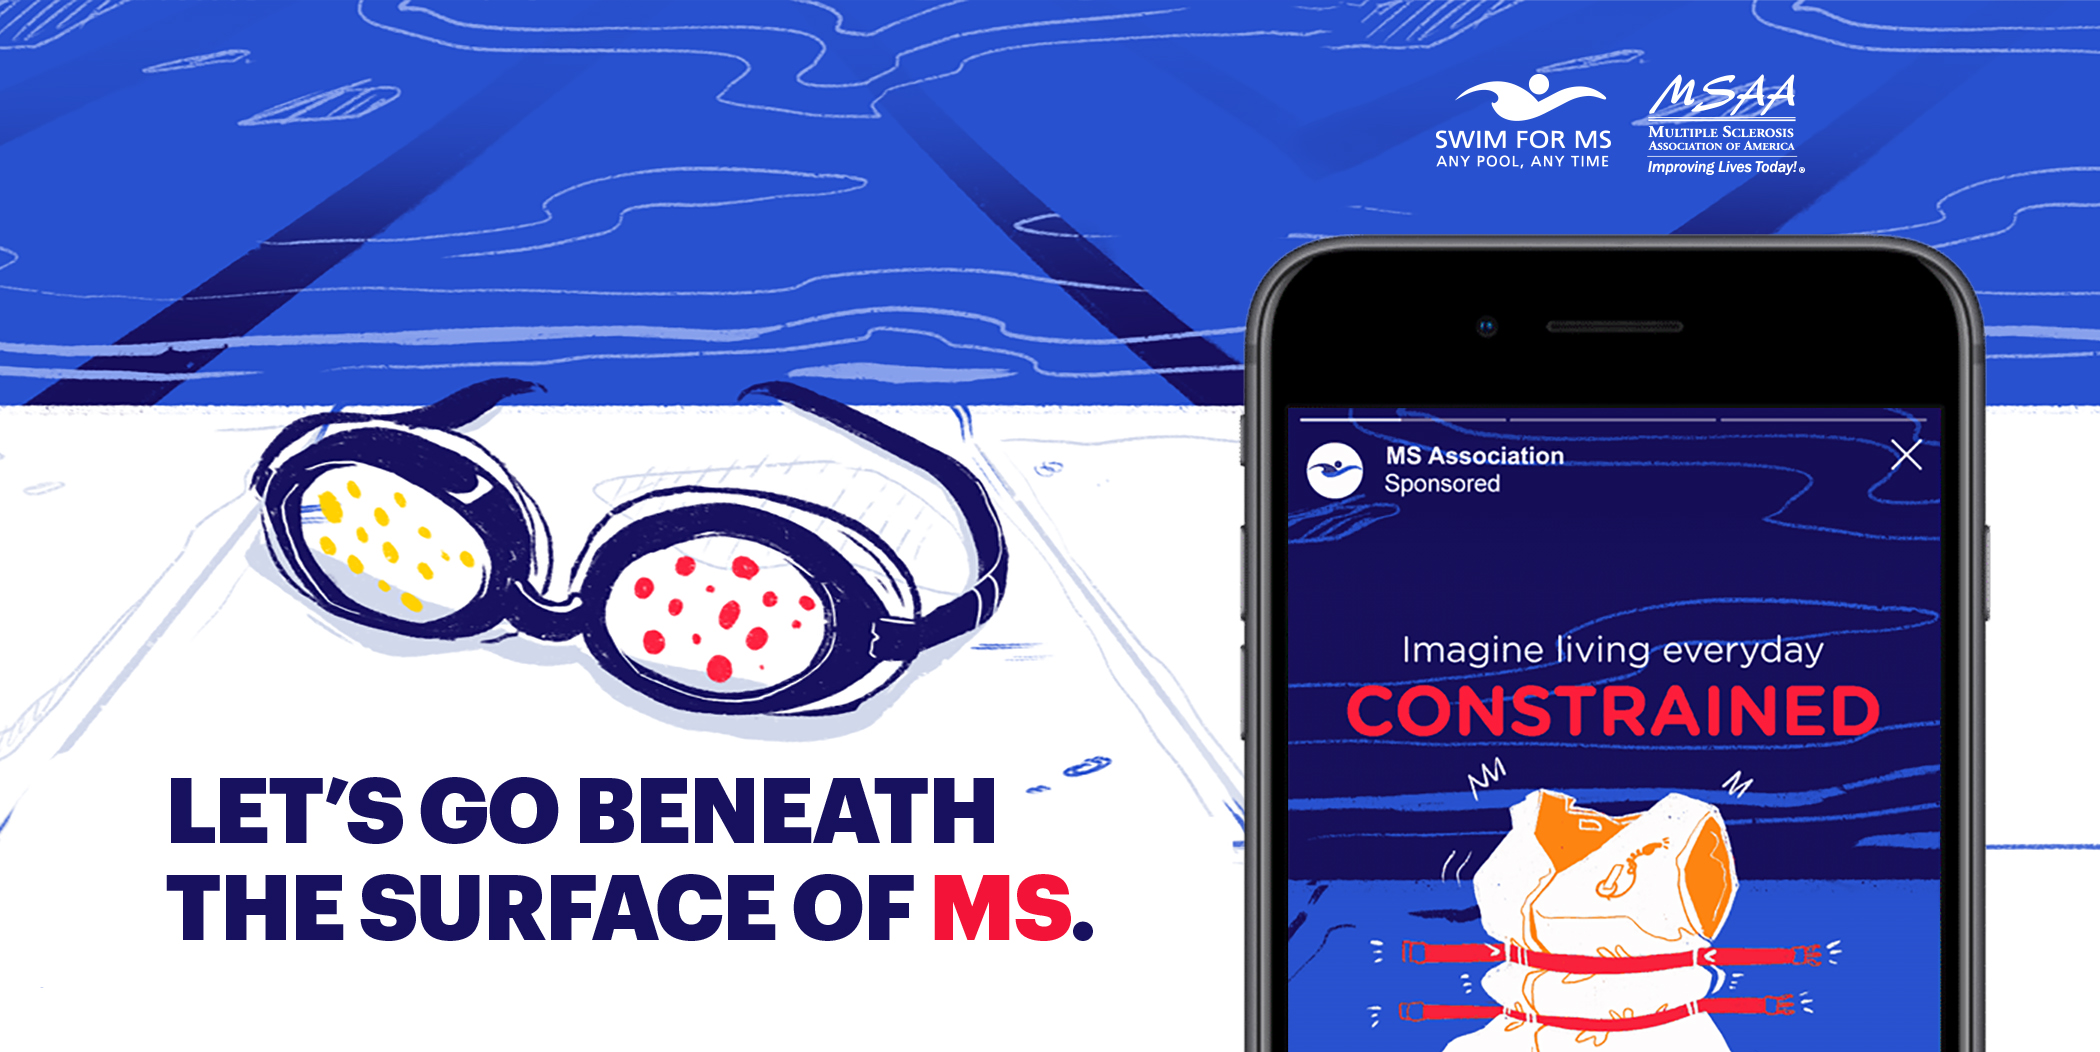
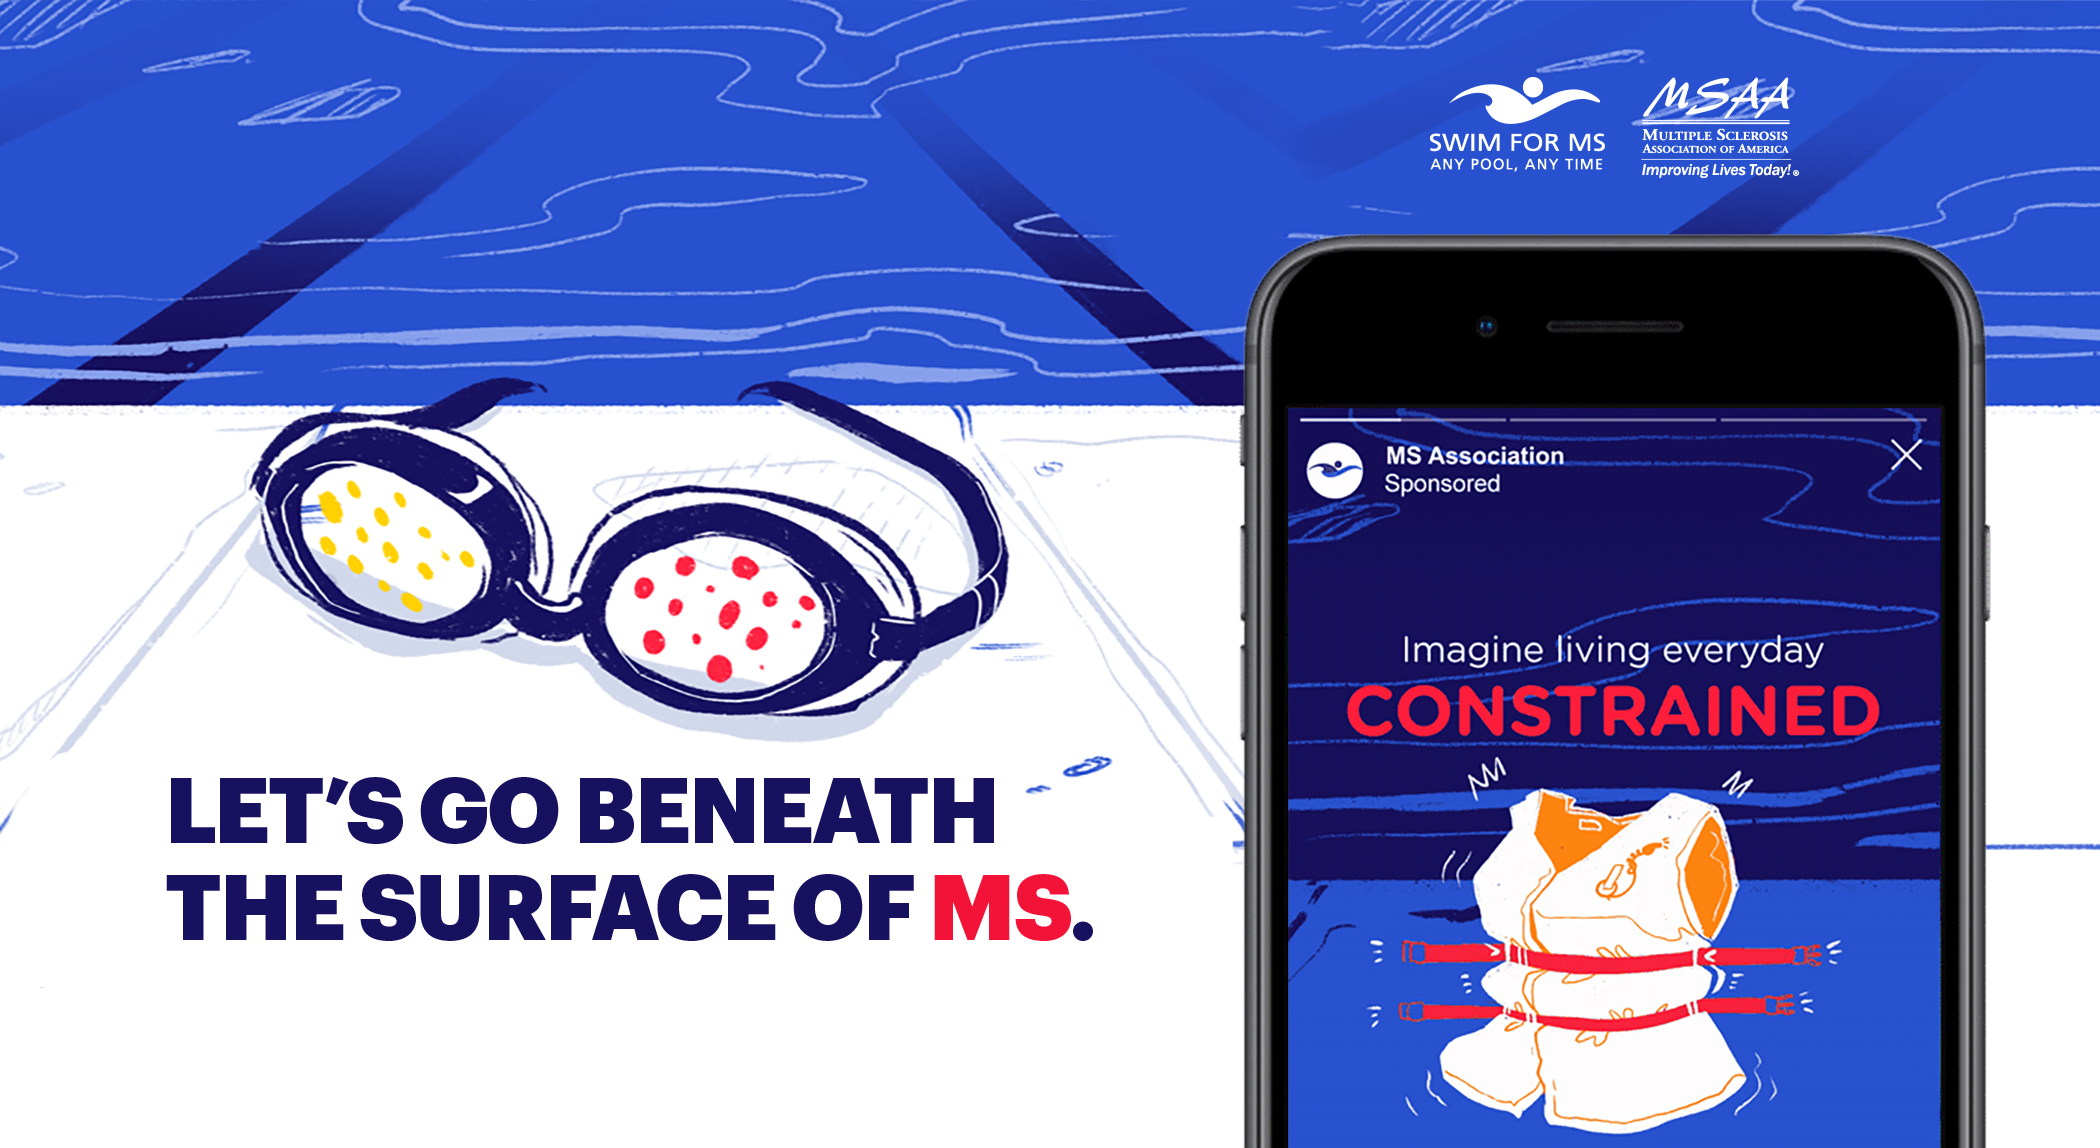
geralt

diff --git a/msaa.html b/msaa.html
@@ -20,7 +20,7 @@
 	<span>
 
 	<span class="cont-nub">#ADVERTISING - 2019</span>
-	<p>Lorem ipsum dolor sit amet, consectetur adipiscing elit, sed do eiusmod tempor incididunt ut labore et dolore magna aliqua. Ut enim ad minim veniam, quis nostr</p>
+	<p>Lorem ipsum dolor sit amet, consectetur adipiscing elit, sed do eiusmod tempor</p>
 
 	<span class="cont-tags animate__animated">Nonprofit</span>
 	<span class="cont-tags animate__animated">Social Media</span>
@@ -29,103 +29,32 @@
 
 </div>
 
-<div class="cont-para">
+<div class="cont-topbot">
 
-<span class="cont-hover"><span class="hoverclick"></span> an image to see more <i class="far fa-hand-pointer"></i></i></span></p>
+	<div class="cont-para">Lorem ipsum dolor sit amet, consectetur adipiscing elit, sed do eiusmod tempor incididunt ut labore et dolore magna aliqua. Ut enim ad minim veniam, quis nostr</div>
 
-<p id="1" class="arraycontent" style="display:block !important"><b>
-
-<span class="cont-pholder-a"></span>
-<span class="cont-pholder"></span>
-<span class="cont-pholder"></span>
-<span class="cont-pholder"></span>
-<span class="cont-pholder"></span>
-<span class="cont-pholder"></span><br>
-
-What unites great women in history?</b> When presented with the challenge to unify female American scientists, artists, educators, and leaders, I found a palpable thematic and visual connection in a punk-feminist identity: the universal story of punching above your weight class.</p>
-
-<p id="2" class="arraycontent">
-
-<span class="cont-pholder"></span>
-<span class="cont-pholder-a"></span>
-<span class="cont-pholder"></span>
-<span class="cont-pholder"></span>
-<span class="cont-pholder"></span>
-<span class="cont-pholder"></span><br>
-
-As an exercise in not just motion design, but also editing, I first assembled hundreds of clips from shows for this episode featuring Annie Clark, a two-time Grammy winning singer-songwriter. <b>The goal was to present a clean, thematically consistent array of motion that allowed me to transition smoothly between scenes.</b></p>
-
-<p id="3" class="arraycontent">
-
-<span class="cont-pholder"></span>
-<span class="cont-pholder"></span>
-<span class="cont-pholder-a"></span>
-<span class="cont-pholder"></span>
-<span class="cont-pholder"></span>
-<span class="cont-pholder"></span><br>
-
-For a "hero" animation, I edited and cut together concert stills to assemble an eye-catching and vibrant scene, keeping the viewer's eye.<br>
-
-I valued smoothly transitioning between scenes, while maintaining visual spectacle and interest. Typography-wise, I chose a combination of a thick, black-weighted typeface to create color blocks while contrasting with a condensed subface.</p>
-
-<p id="4" class="arraycontent">
-
-<span class="cont-pholder"></span>
-<span class="cont-pholder"></span>
-<span class="cont-pholder"></span>
-<span class="cont-pholder-a"></span>
-<span class="cont-pholder"></span>
-<span class="cont-pholder"></span><br>
-
-Into the spotlight! This quick transition was made to introduce segments of the content featuring the "rise" of the person. This could be used with footage, drawings, narration, etc.<br>
-
-Typically, this allows me to smooth over cuts in narration. The editing will allow me to develop a linear narrative from several interview sessions or clips.
-</p>
-
-<p id="5" class="arraycontent">
-	
-<span class="cont-pholder"></span>
-<span class="cont-pholder"></span>
-<span class="cont-pholder"></span>
-<span class="cont-pholder"></span>
-<span class="cont-pholder-a"></span>
-<span class="cont-pholder"></span><br>
-
-Part of the groundwork in this project involved going through footage and stills from concerts. I carefully weighed my options, edited and colored images, and composed them in a 2.5D (moving camera in After Effects) to build the sensation of "moving" through Annie Clark's timeline.
-
-</p>
-
-<p id="6" class="arraycontent">
-	
-<span class="cont-pholder"></span>
-<span class="cont-pholder"></span>
-<span class="cont-pholder"></span>
-<span class="cont-pholder"></span>
-<span class="cont-pholder"></span>
-<span class="cont-pholder-a"></span><br>
-
-Moving footage and animation are key to building an impressive experience out of a short video--viewers will take keys from seeing just seconds of footage of playing, actors, etc. 
-
-</p>
-
-<br>
-<p><b>Skills used:</b> <br>After Effects, storyboarding, video editing, art direction</p>
+	<div class="cont-hovers">Lorem ipsum dolor sit amet, consectetur adipiscing elit, sed do eiusmod tempor incididunt ut labore et dolore magna aliqua. Ut enim ad minim veniam, quis nostr</div>
 
 </div>
 
-<div class="cont-array">
-	<span><p class="indicator"><i class="far fa-hand-pointer"></i></p><img src="links/doc/1.png" class="arraylinks hvr-grow" onmouseover="openArray(event, '1'); changeImg(this);" onmouseleave="revertImg(this);" onclick="openArray(event, '1'); changeImg(this);"></span>
+<div class="cont-phone">
 
-	<span><p class="indicator"><i class="far fa-hand-pointer"></i></p><img src="links/doc/2.png" class="arraylinks hvr-grow" onmouseover="openArray(event, '2'); changeImg(this)" onmouseleave="revertImg(this);" onclick="openArray(event, '2'); changeImg(this);"></span>
+<span class="phone-hovers">
+	<img src="links/doc/msaa/mslife.png" class="hvr-grow arraylinks phone-link"  onmouseover="openArray(event, '1');">
+	<img src="links/doc/msaa/msgoggles.png" class="hvr-grow arraylinks phone-link" onmouseover="openArray(event, '2');">
+	<img src="links/doc/msaa/msfins.png" class="hvr-grow arraylinks phone-link"  onmouseover="openArray(event, '3');">
+</span>
 
-	<span><p class="indicator"><i class="far fa-hand-pointer"></i></p><img src="links/doc/3.png" class="arraylinks hvr-grow" onmouseover="openArray(event, '3'); changeImg(this)" onmouseleave="revertImg(this);" onclick="openArray(event, '3'); changeImg(this);"></span>
+<span class="phone-mockup">
 
-	<span><p class="indicator"><i class="far fa-hand-pointer"></i></p><img src="links/doc/4.png" class="arraylinks hvr-grow" onmouseover="openArray(event, '4'); changeImg(this)" onmouseleave="revertImg(this);" onclick="openArray(event, '4'); changeImg(this);"></span>
+	<img src="links/doc/msaa/ms1.gif" class="phone-display arraycontent" id="1" style="display:block !important">
+	<img src="links/doc/msaa/ms2.gif" class="phone-display arraycontent" id="2" style="display:none">
+	<img src="links/doc/msaa/ms3.gif" class="phone-display arraycontent" id="3" style="display:none">
+</span>
 
-	<span><p class="indicator"><i class="far fa-hand-pointer"></i></p><img src="links/doc/5.png" class="arraylinks hvr-grow" onmouseover="openArray(event, '5'); changeImg(this)" onmouseleave="revertImg(this);" onclick="openArray(event, '5'); changeImg(this);"></span>
-
-	<span><p class="indicator"><i class="far fa-hand-pointer"></i></p><img src="links/doc/6.png" class="arraylinks hvr-grow" onmouseover="openArray(event, '6'); changeImg(this)" onmouseleave="revertImg(this);" onclick="openArray(event, '5'); changeImg(this);"></span>
 </div>
+
+
 
 <!-- <iframe src="https://player.vimeo.com/video/470895196" frameborder="0" allow="autoplay; fullscreen" allowfullscreen></iframe>
  -->

diff --git a/women.html b/women.html
@@ -77,7 +77,7 @@ I valued smoothly transitioning between scenes, while maintaining visual spectac
 <span class="cont-pholder"></span>
 <span class="cont-pholder"></span><br>
 
-Into the spotlight! This quick transition was made to introduce segments of the content featuring the "rise" of the person. This could be used with footage, drawings, narration, etc.<br>
+Into the spotlight! This quick transition was made to introduce segments of the content featuring the "rise" of the person. This could be used with footage, drawings, narration, etc.
 
 Typically, this allows me to smooth over cuts in narration. The editing will allow me to develop a linear narrative from several interview sessions or clips.
 </p>
@@ -114,17 +114,17 @@ Moving footage and animation are key to building an impressive experience out of
 </div>
 
 <div class="cont-array">
-	<span><p class="indicator"><i class="far fa-hand-pointer"></i></p><img src="links/doc/women/1.png" class="arraylinks hvr-grow" onmouseover="openArray(event, '1'); changeImg(this);" onmouseleave="revertImg(this);" onclick="openArray(event, '1'); changeImg(this);"></span>
+	<span><p class="indicator"><i class="far fa-hand-pointer"></i></p><img src="links/doc/women/1.png" class="arraylinks size-1920 hvr-grow" onmouseover="openArray(event, '1'); changeImg(this);" onmouseleave="revertImg(this);" onclick="openArray(event, '1'); changeImg(this);"></span>
 
-	<span><p class="indicator"><i class="far fa-hand-pointer"></i></p><img src="links/doc/women/2.png" class="arraylinks hvr-grow" onmouseover="openArray(event, '2'); changeImg(this)" onmouseleave="revertImg(this);" onclick="openArray(event, '2'); changeImg(this);"></span>
+	<span><p class="indicator"><i class="far fa-hand-pointer"></i></p><img src="links/doc/women/2.png" class="arraylinks size-1920 hvr-grow" onmouseover="openArray(event, '2'); changeImg(this)" onmouseleave="revertImg(this);" onclick="openArray(event, '2'); changeImg(this);"></span>
 
-	<span><p class="indicator"><i class="far fa-hand-pointer"></i></p><img src="links/doc/women/3.png" class="arraylinks hvr-grow" onmouseover="openArray(event, '3'); changeImg(this)" onmouseleave="revertImg(this);" onclick="openArray(event, '3'); changeImg(this);"></span>
+	<span><p class="indicator"><i class="far fa-hand-pointer"></i></p><img src="links/doc/women/3.png" class="arraylinks size-1920 hvr-grow" onmouseover="openArray(event, '3'); changeImg(this)" onmouseleave="revertImg(this);" onclick="openArray(event, '3'); changeImg(this);"></span>
 
-	<span><p class="indicator"><i class="far fa-hand-pointer"></i></p><img src="links/doc/women/4.png" class="arraylinks hvr-grow" onmouseover="openArray(event, '4'); changeImg(this)" onmouseleave="revertImg(this);" onclick="openArray(event, '4'); changeImg(this);"></span>
+	<span><p class="indicator"><i class="far fa-hand-pointer"></i></p><img src="links/doc/women/4.png" class="arraylinks size-1920 hvr-grow" onmouseover="openArray(event, '4'); changeImg(this)" onmouseleave="revertImg(this);" onclick="openArray(event, '4'); changeImg(this);"></span>
 
-	<span><p class="indicator"><i class="far fa-hand-pointer"></i></p><img src="links/doc/women/5.png" class="arraylinks hvr-grow" onmouseover="openArray(event, '5'); changeImg(this)" onmouseleave="revertImg(this);" onclick="openArray(event, '5'); changeImg(this);"></span>
+	<span><p class="indicator"><i class="far fa-hand-pointer"></i></p><img src="links/doc/women/5.png" class="arraylinks size-1920 hvr-grow" onmouseover="openArray(event, '5'); changeImg(this)" onmouseleave="revertImg(this);" onclick="openArray(event, '5'); changeImg(this);"></span>
 
-	<span><p class="indicator"><i class="far fa-hand-pointer"></i></p><img src="links/doc/women/6.png" class="arraylinks hvr-grow" onmouseover="openArray(event, '6'); changeImg(this)" onmouseleave="revertImg(this);" onclick="openArray(event, '5'); changeImg(this);"></span>
+	<span><p class="indicator"><i class="far fa-hand-pointer"></i></p><img src="links/doc/women/6.png" class="arraylinks size-1920 hvr-grow" onmouseover="openArray(event, '6'); changeImg(this)" onmouseleave="revertImg(this);" onclick="openArray(event, '5'); changeImg(this);"></span>
 </div>
 
 <!-- <iframe src="https://player.vimeo.com/video/470895196" frameborder="0" allow="autoplay; fullscreen" allowfullscreen></iframe>

diff --git a/css/content.css b/css/content.css
@@ -163,9 +163,62 @@ input:checked + .slider:before {
 }
 
 .cont-topbot {
-	width:auto;
-	display:inline-block;
+	display:grid;
+	grid-template-rows: 1fr 1fr;
 	background:var(--accent-1);
+}
+
+.cont-hovers {
+	border-top:2px solid var(--body-color);
+}
+
+.cont-phone {
+	border-left:2px solid var(--body-color);
+	display:flex;
+	justify-content: center;
+	align-items: center;
+	padding:40px 0 40px 0;
+}
+
+.phone-mockup {
+	width:20vw;
+	display:flex;
+	justify-content: center;
+	align-items: center;
+	height:40vw;
+	background:url(../links/doc/phone.png);
+	background-size:contain;
+	background-repeat:no-repeat;
+	background-position:center;
+}
+
+.phone-display {
+	display:block;
+	width:17.5vw;
+	height:31vw;
+	margin-bottom:4px;
+}
+
+.phone-hovers {
+	display:grid;
+	grid-template-rows: 1fr 1fr 1fr;
+	grid-gap: 20px;
+	margin-right:30px;
+}
+
+.phone-hovers img {
+	padding:10px;
+	width:65px;
+	height:auto;
+	border-radius:50% 50%;
+	background:var(--accent-2);
+	transition:0.3s;
+}
+
+.phone-hovers img:hover {
+	background:var(--accent-1);
+	transition:0.3s;
+	cursor:pointer;
 }
 
 .cont-img {
@@ -434,7 +487,16 @@ input:checked + .slider:before {
 @media only screen and (max-width: 600px) {
 
 	.cont-array {
-	display:block;
+	display:grid;
+	grid-template-columns:auto;
+	grid-template-rows: auto;
+	grid-gap:8px;
+	padding:0px;
+	}
+
+	.size-1920 {
+		width:90vw !important;
+		height:50.87vw !important;
 	}
 
 	.cont-video {

diff --git a/css/main.css b/css/main.css
@@ -1,5 +1,10 @@
 /** root **/
 
+img {
+	user-select:none;
+	-webkit-touch-callout:none;
+}
+
 @font-face {
 	font-family:DINNextLTPro-Condensed;
 	src: url(../links/fonts/DIN/DINNextLTPro-Condensed.otf);
